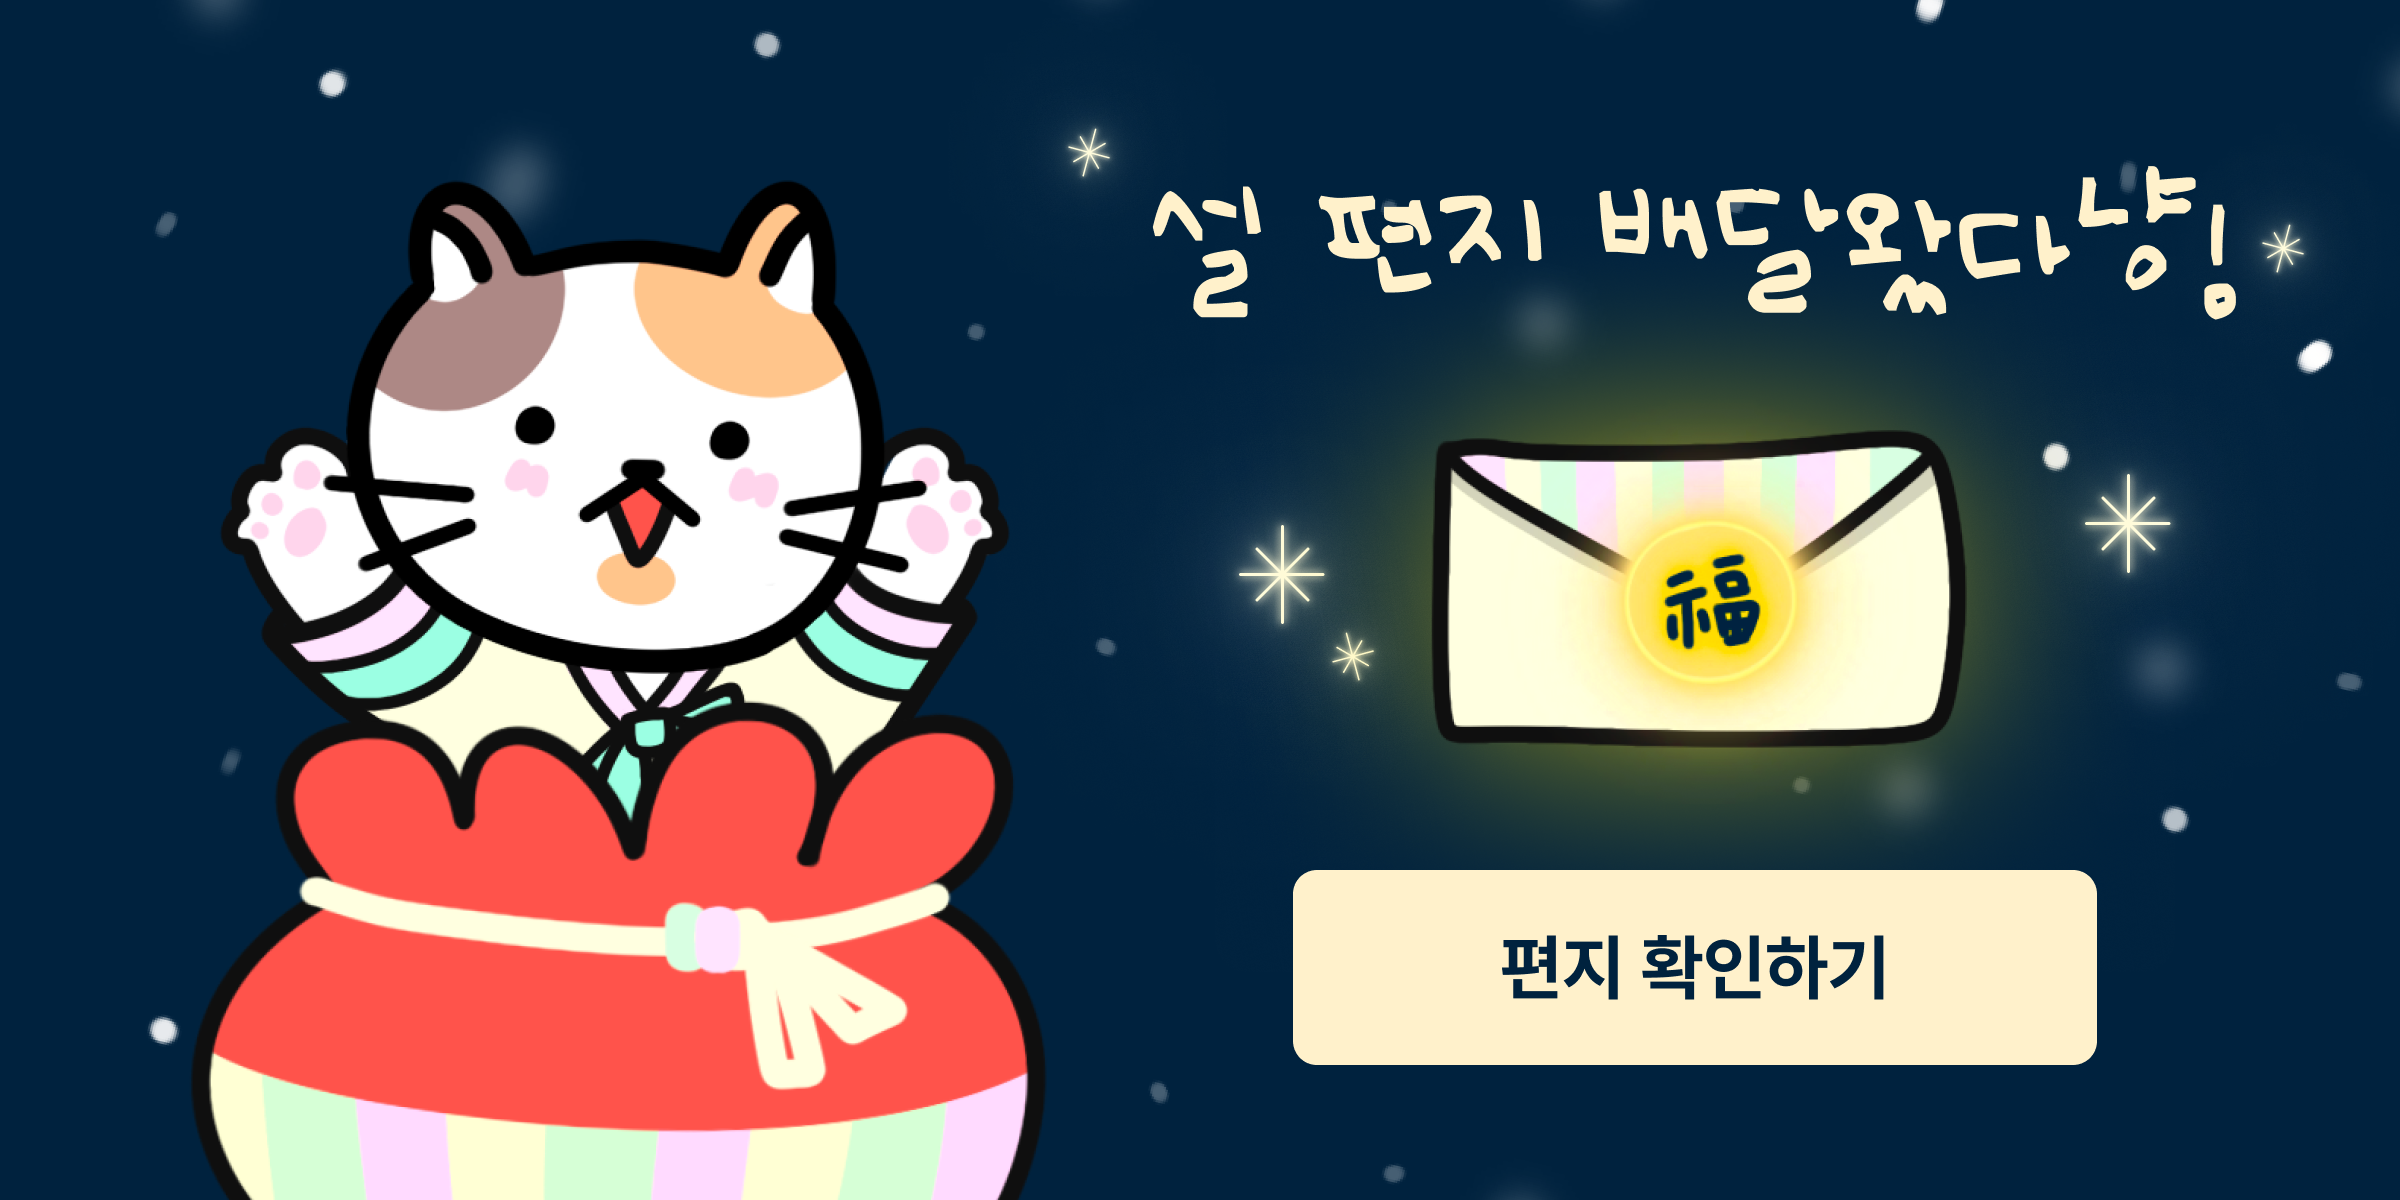
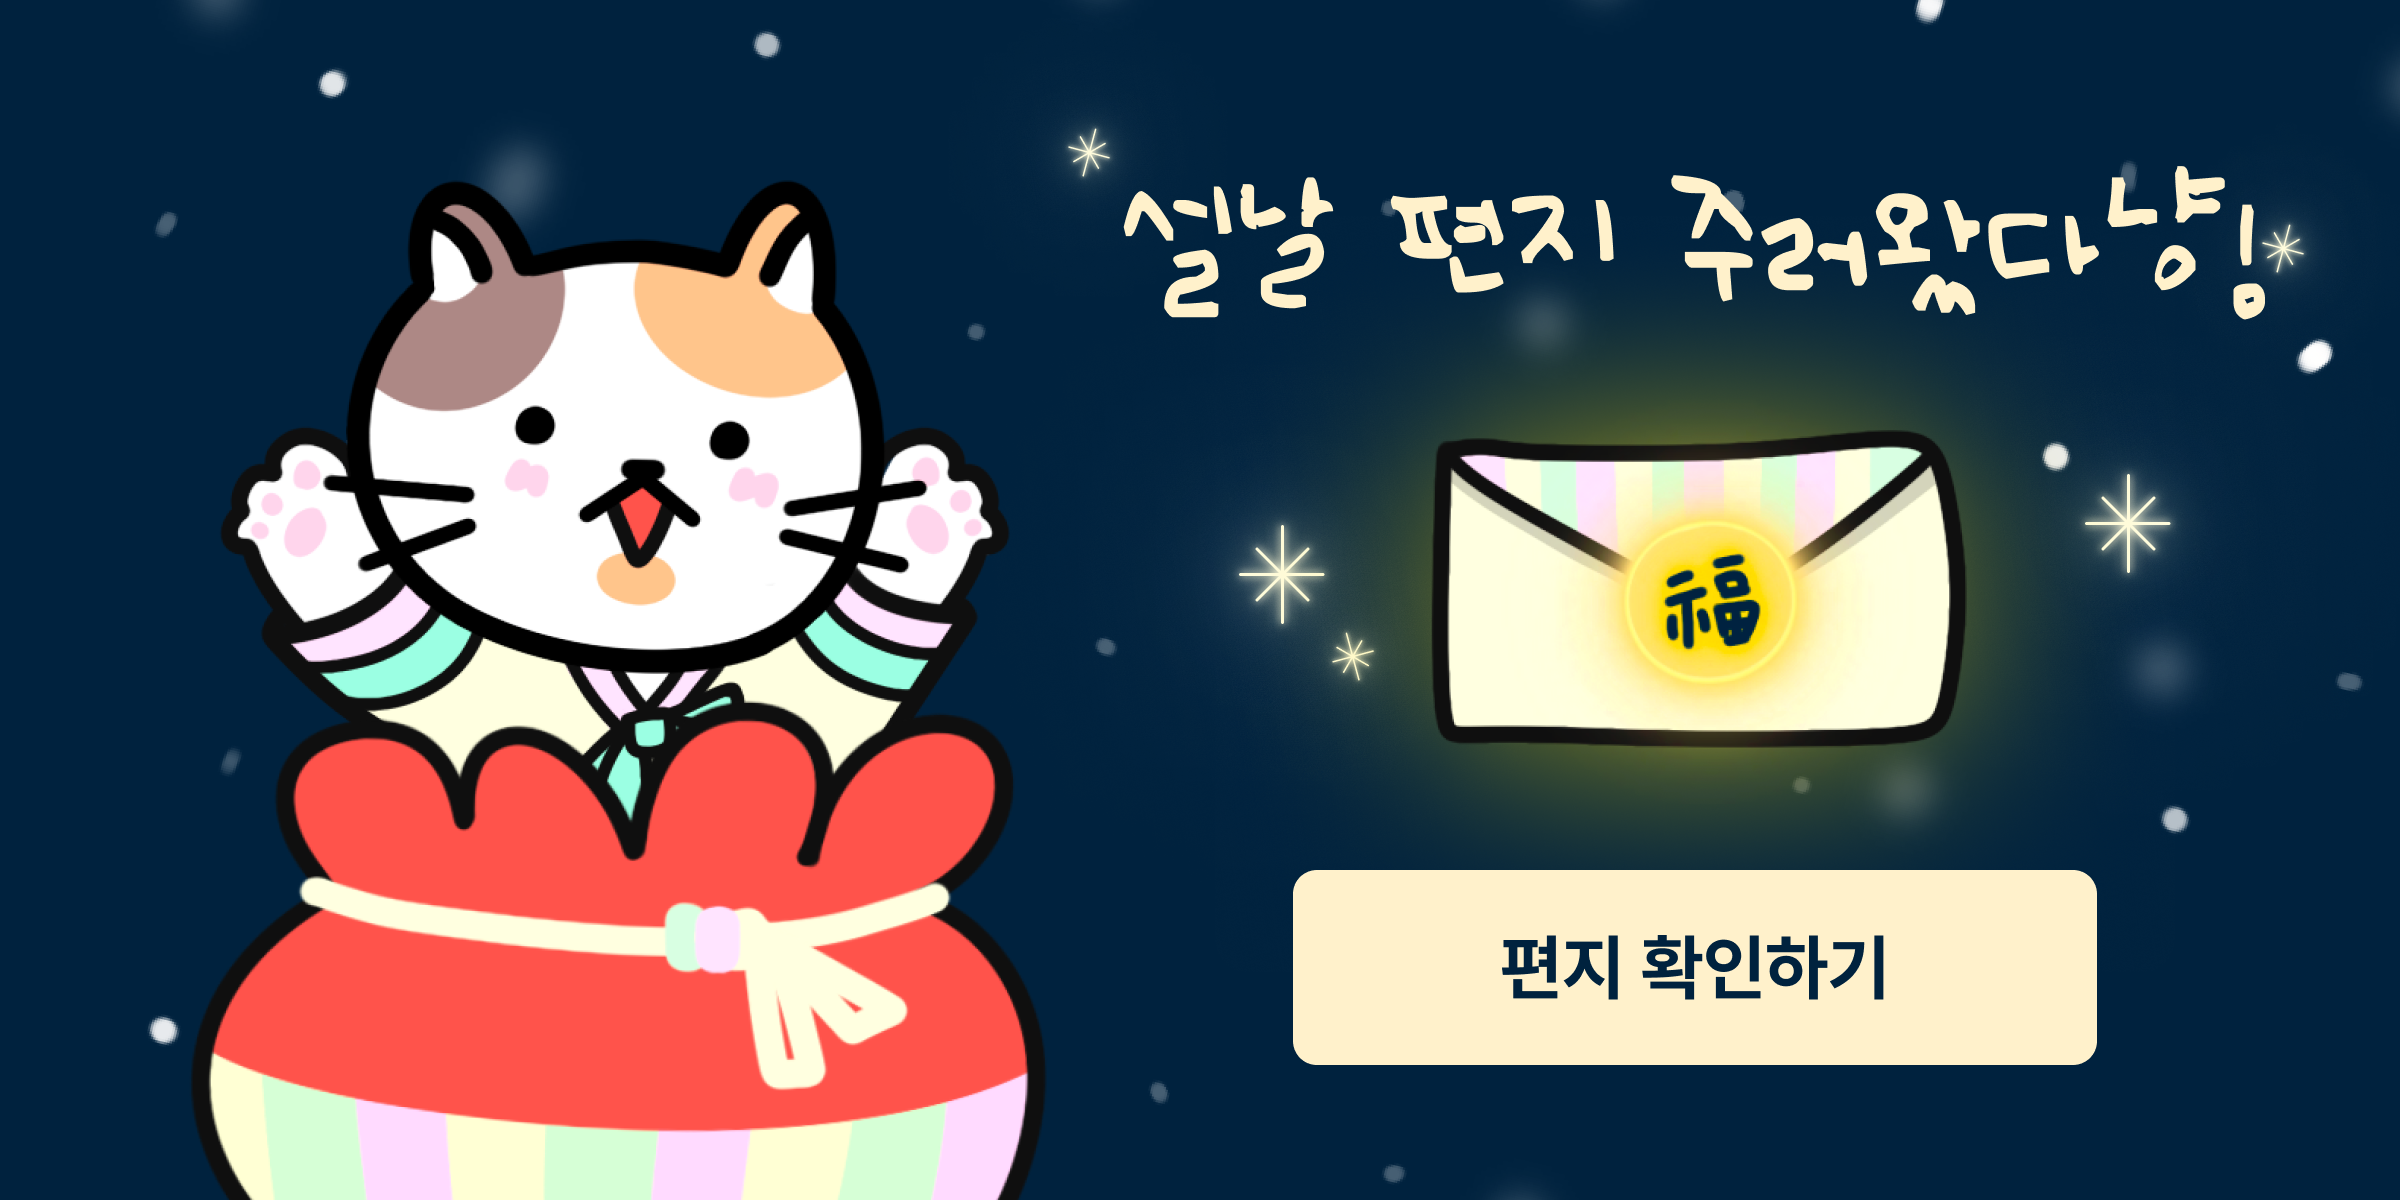
feat: 수정사항 적용

Changed region(s): [[0.4688, 0.1233, 0.9375, 0.2775]]

diff --git a/components/pages/letter/select-pad.tsx b/components/pages/letter/select-pad.tsx
@@ -42,7 +42,7 @@ const SelectPad = ({ router, control, catType }: SelectPadProps) => {
       >
         마음에 드는 설냥이를
         <br />
-        선택해주냥 =^･ω･^=
+        선택해주라냥 =^･ω･^=
       </div>
       <FormField
         name="catName"
@@ -95,28 +95,6 @@ const SelectPad = ({ router, control, catType }: SelectPadProps) => {
                   {umu.floating.map((item, index) => (
                     <AnimateArticle key={item.name} item={item} />
                   ))}
-                  <div className="absolute -top-[83%] left-[14%] z-[2] flex w-[67.7%] scale-75 items-center justify-center">
-                    <Image
-                      src={말풍선.src}
-                      width={말풍선.width}
-                      height={말풍선.height}
-                      alt="말풍선"
-                    />
-                    <p
-                      className={cn(
-                        "absolute text-black",
-                        field.value === "umu"
-                          ? "umu"
-                          : field.value === "cheezu"
-                            ? "cheezu"
-                            : "gookie",
-                      )}
-                    >
-                      나의 귀여운 글씨체와 함께
-                      <br />
-                      편지를 써보는 건 어떠냥!
-                    </p>
-                  </div>
                 </div>
               ) : field.value === "cheezu" ? (
                 <div className="absolute -bottom-[7%] left-0">
@@ -137,19 +115,6 @@ const SelectPad = ({ router, control, catType }: SelectPadProps) => {
                   {cheezu.floating.map((item, index) => (
                     <AnimateArticle key={item.name} item={item} />
                   ))}
-                  <div className="absolute -top-[98%] left-[19%] z-[2] flex w-[67.7%] scale-75 items-center justify-center">
-                    <Image
-                      src={말풍선.src}
-                      width={말풍선.width}
-                      height={말풍선.height}
-                      alt="말풍선"
-                    />
-                    <p className={cn("cheezu absolute text-black")}>
-                      나의 귀여운 글씨체와 함께
-                      <br />
-                      편지를 써보는 건 어떠냥!
-                    </p>
-                  </div>
                 </div>
               ) : (
                 <div className="absolute -bottom-[7%] left-0">
@@ -191,21 +156,30 @@ const SelectPad = ({ router, control, catType }: SelectPadProps) => {
                   {gookie.floating.map((item, index) => (
                     <AnimateArticle key={item.name} item={item} />
                   ))}
-                  <div className="absolute -top-[98%] left-[19%] z-[2] flex w-[67.7%] scale-75 items-center justify-center">
-                    <Image
-                      src={말풍선.src}
-                      width={말풍선.width}
-                      height={말풍선.height}
-                      alt="말풍선"
-                    />
-                    <p className={cn("gookie absolute text-black")}>
-                      나의 귀여운 글씨체와 함께
-                      <br />
-                      편지를 써보는 건 어떠냥!
-                    </p>
-                  </div>
                 </div>
               )}
+              <div className="absolute left-[7%] z-[2] flex w-[80%] scale-75 items-center justify-center">
+                <Image
+                  src={말풍선.src}
+                  width={말풍선.width}
+                  height={말풍선.height}
+                  alt="말풍선"
+                />
+                <p
+                  className={cn(
+                    "absolute text-black",
+                    field.value === "umu"
+                      ? "umu"
+                      : field.value === "cheezu"
+                        ? "cheezu"
+                        : "gookie",
+                  )}
+                >
+                  나의 귀여운 글씨체와 함께
+                  <br />
+                  편지를 써보는 건 어떠냥!
+                </p>
+              </div>
             </div>
           </>
         )}

diff --git a/app/assets/우무/index.ts b/app/assets/우무/index.ts
@@ -5,6 +5,7 @@ import 중간위 from "@/app/assets/우무/U_mu.png";
 import 효과우측 from "@/app/assets/우무/E_r.png";
 import 효과좌측 from "@/app/assets/우무/E_l.png";
 import bg from "@/app/assets/우무/bg.png";
+import bgFlat from "@/app/assets/우무/bgFlat.png";
 
 import main from "@/app/assets/우무/main.png";
 
@@ -55,7 +56,7 @@ const images = {
   ],
   main,
   bg,
-  bgFlat: bg,
+  bgFlat,
 };
 
 export default images;

diff --git a/components/receiver-loading.tsx b/components/receiver-loading.tsx
@@ -57,7 +57,7 @@ const ReceiverLoading = ({ className, onFinish, catType }: LoadingProps) => {
         <div className="mt-6 font-umu text-[26px] leading-[46px]">
           설냥이가 안전하게
           <br />
-          편지 배달왔다냥 ค^•ﻌ•^ค
+          편지 주러왔다냥 ค^•ﻌ•^ค
         </div>
         <m.div
           variants={{
